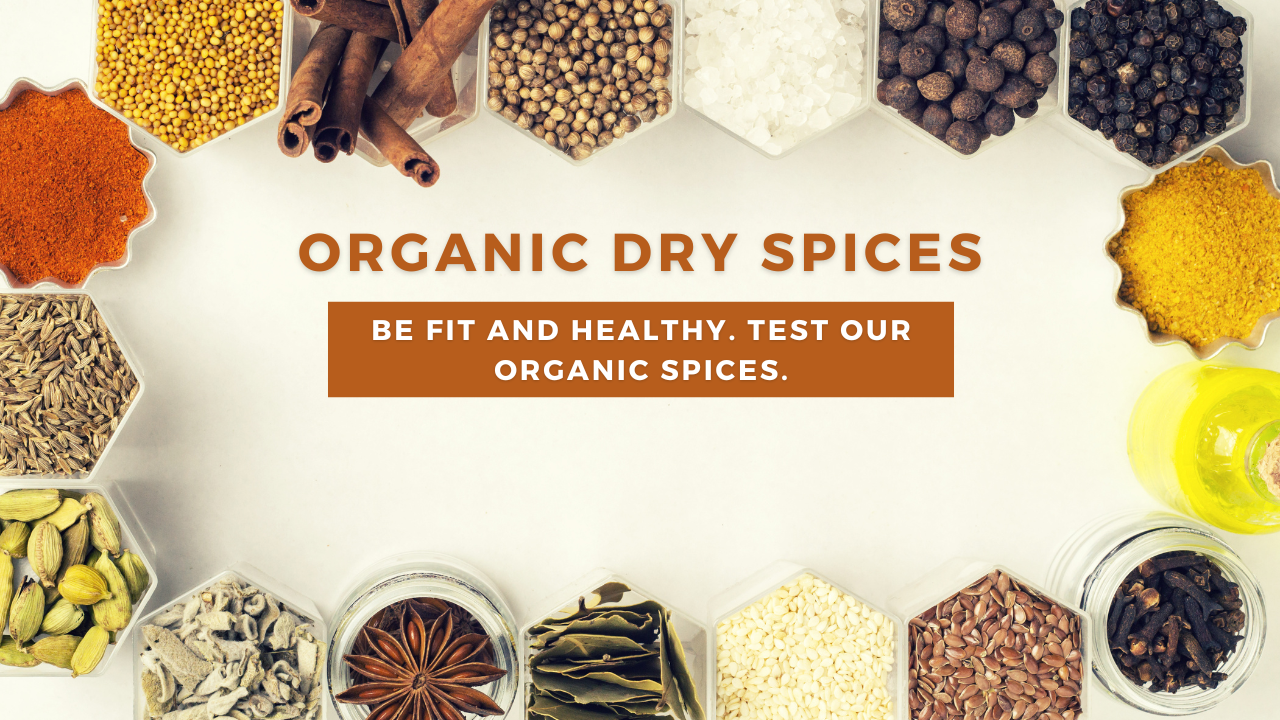
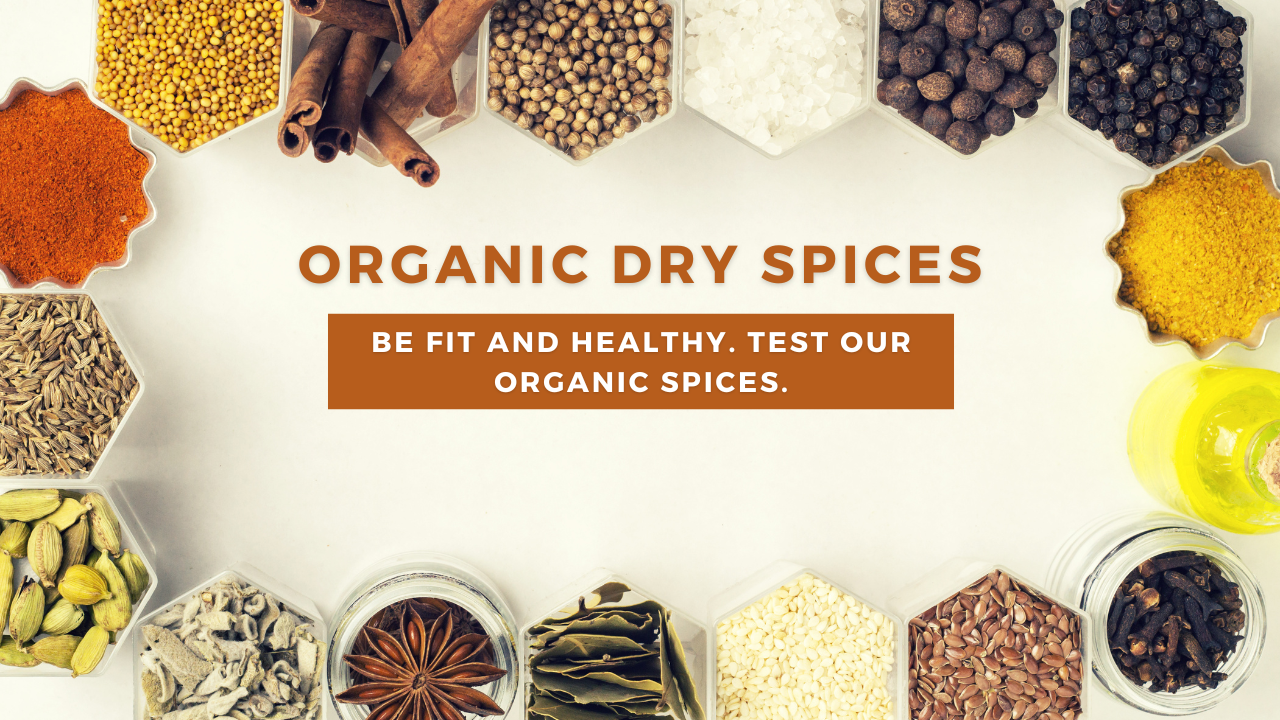
Class-22

Changed region(s): [[0.2188, 0.3056, 0.7812, 0.5806]]

diff --git a/style.css b/style.css
@@ -32,7 +32,7 @@
     background-color: #F0D739;
    font-size: 35px !important;
 
-   margin-top: 220px !important;
+   margin-top: 270px !important;
 }
 
 
